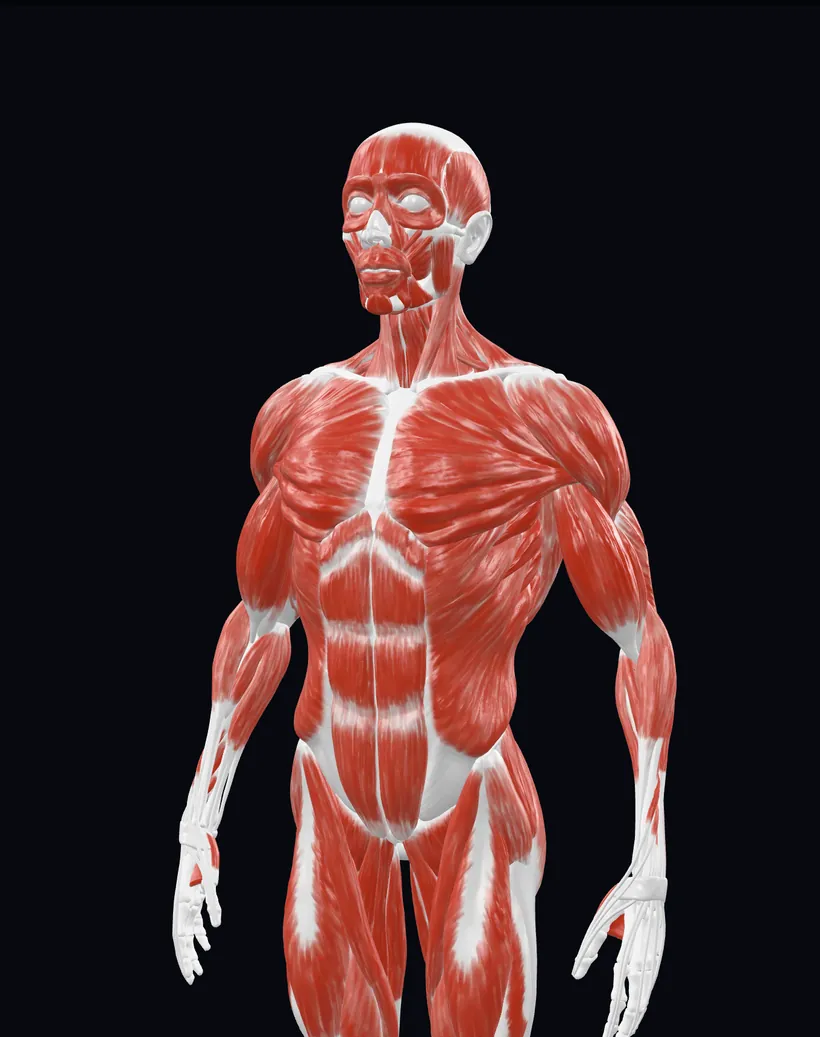
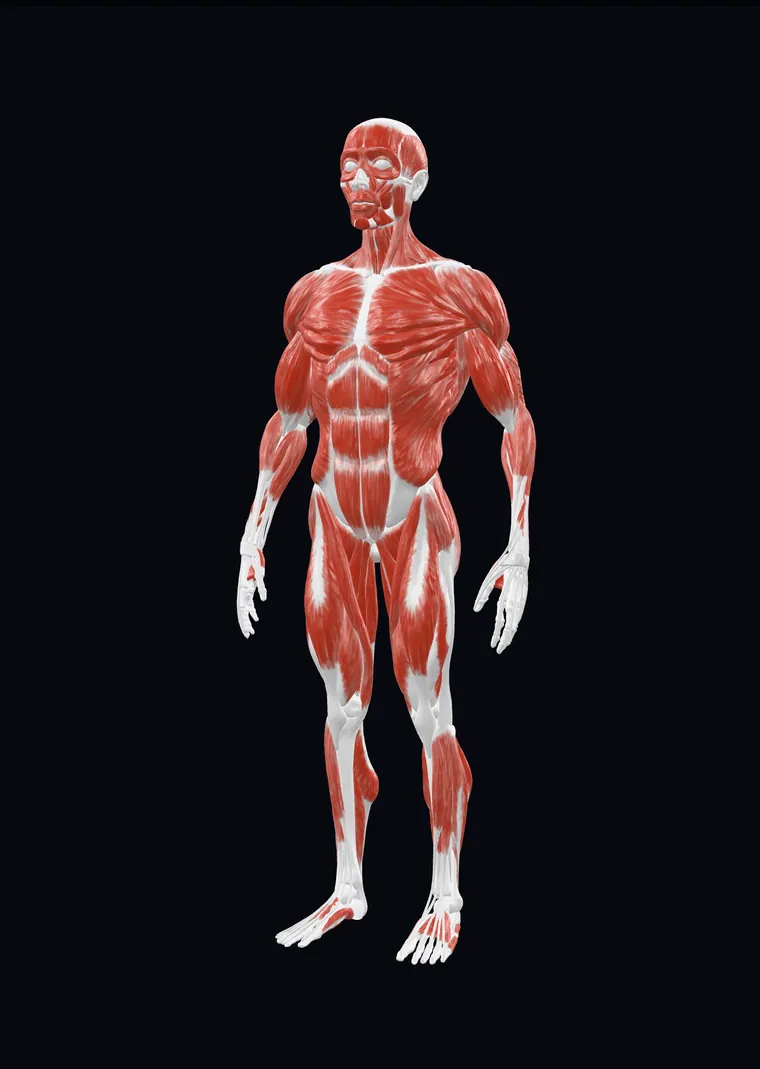
Hero 3D : cadrage corps entier (tête → pieds)
Le modèle montre désormais le corps complet (et non plus tête → cuisses) :
caméra reculée (rayon ~165) et centrée sur le centre du corps. Le dolly et la
rotation 360° gardent le corps entier visible (rayon borné jusqu'à 240). Fond
plein cadre sans rognage (top/bottom à 0) ; poster régénéré ; recul au scroll
ajusté pour ne pas couper les pieds.

Claude-Session: https://claude.ai/code/session_017jL9ARQ1URyorq6fvHaodw

diff --git a/anatomy-hero-model.js b/anatomy-hero-model.js
@@ -44,8 +44,8 @@
   var PERIOD = 9000;            // ms — rythme du dolly et du léger basculement
   var BASE_PHI = 86;            // deg — hauteur de la caméra
   var PHI_AMP = 2.5;            // deg — léger basculement vertical, pour donner de la vie
-  var BASE_RADIUS = 94;         // distance caméra de repos (le dolly oscille autour)
-  var TARGET = "-0.09m 6m -0.49m";
+  var BASE_RADIUS = 165;        // distance caméra de repos (corps entier ; le dolly oscille autour)
+  var TARGET = "-0.09m -9.05m -0.49m"; // centre du corps complet (tête → pieds)
   var FOV = "30deg";
   function orbit(theta, phi, r) { return theta + "deg " + phi + "deg " + r + "m"; }
 
@@ -108,8 +108,8 @@
     mv.setAttribute("camera-target", TARGET);
     mv.setAttribute("field-of-view", FOV);
     // autorise le dolly (sinon model-viewer borne le rayon au cadrage auto)
-    mv.setAttribute("min-camera-orbit", "auto auto 55m");
-    mv.setAttribute("max-camera-orbit", "auto auto 150m");
+    mv.setAttribute("min-camera-orbit", "auto auto 40m");
+    mv.setAttribute("max-camera-orbit", "auto auto 240m");
     mv.setAttribute("interaction-prompt", "none");
     // éclairage doux et neutre, sans ombre coûteuse ni post-traitement lourd
     mv.setAttribute("environment-image", "neutral");
@@ -156,7 +156,7 @@
       var theta = BASE_THETA + (ms / SPIN_PERIOD) * 360; // rotation 360° continue
       var t = ms / PERIOD * Math.PI * 2;
       var phi = BASE_PHI + PHI_AMP * Math.sin(t * 0.6);
-      var r = BASE_RADIUS * (1 + 0.16 * Math.sin(t * 0.66)); // dolly caméra : gros plan ↔ dézoom
+      var r = BASE_RADIUS * (1 + 0.12 * Math.sin(t * 0.66)); // dolly caméra : corps entier, plus près ↔ plus loin
       self.mv.cameraOrbit = orbit(theta.toFixed(2), phi.toFixed(2), r.toFixed(2));
       self._raf = requestAnimationFrame(frame);
     }
@@ -194,7 +194,7 @@
       var vh = window.innerHeight || 1;
       var p = Math.min(Math.max(window.scrollY / (vh * 0.8), 0), 1); // 0 = haut, 1 = hero quitté
       var e = p * p * (3 - 2 * p);                                   // lissage (smoothstep)
-      fig.style.transform = "translateY(" + (e * 5).toFixed(2) + "%) scale(" + (1.06 - 0.32 * e).toFixed(3) + ")";
+      fig.style.transform = "translateY(" + (e * 5).toFixed(2) + "%) scale(" + (1.0 - 0.26 * e).toFixed(3) + ")";
       fig.style.opacity = (1 - 0.6 * e).toFixed(3);
     }
     function onScroll() { if (!ticking) { ticking = true; requestAnimationFrame(update); } }

diff --git a/styles.css b/styles.css
@@ -2288,7 +2288,7 @@ anatomy-hero-model{position:absolute;inset:0;display:block}
 .ahm-ready .ahm-poster{opacity:0}
 
 /* Écorché en arrière-plan plein cadre du hero (derrière le texte, sous le voile sombre) */
-.hero-anatomy{position:absolute;z-index:1;top:-3%;bottom:-7%;right:-2%;width:62%;max-width:780px;pointer-events:none}
+.hero-anatomy{position:absolute;z-index:1;top:0;bottom:0;right:0;width:60%;max-width:760px;pointer-events:none}
 .hero-anatomy::before{content:"";position:absolute;z-index:-1;left:52%;top:40%;width:80%;height:62%;transform:translate(-50%,-50%);border-radius:50%;background:radial-gradient(circle,rgba(224,74,52,.18),rgba(150,40,36,.05) 50%,transparent 72%);filter:blur(8px)}
 /* lisibilité du texte par-dessus le modèle en arrière-plan */
 .hero-copy h1,.hero-copy>p,.hero-copy .eyebrow{text-shadow:0 2px 22px rgba(5,7,12,.8),0 1px 3px rgba(5,7,12,.7)}